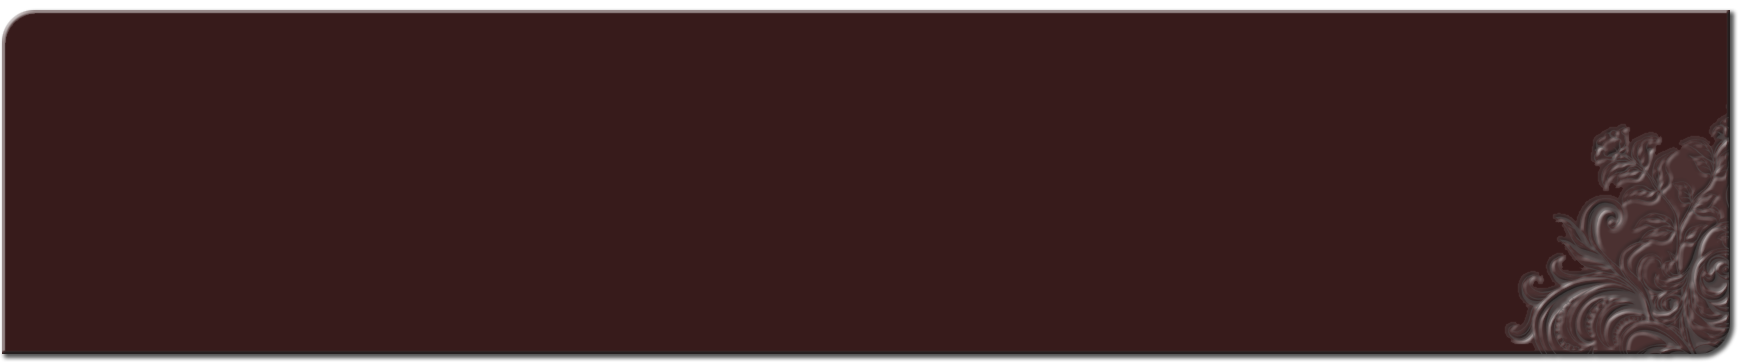
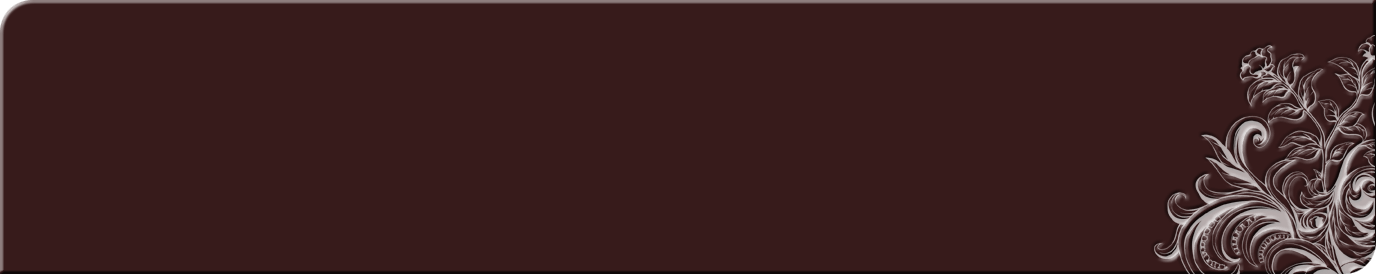
Rip textbox from actual Switch files

Changed region(s): [[0.0, 0.0, 1.0, 1.0]]

diff --git a/render.html b/render.html
@@ -1,8 +1,8 @@
 <style>
     #textbox {
         background-image: url('textbox.png');
-        width: 1738px;
-        height: 362px;
+        width: 1376px;
+        height: 274px;
         padding-top: 30px;
         padding-left: 30px;
         font-size: xx-large;
